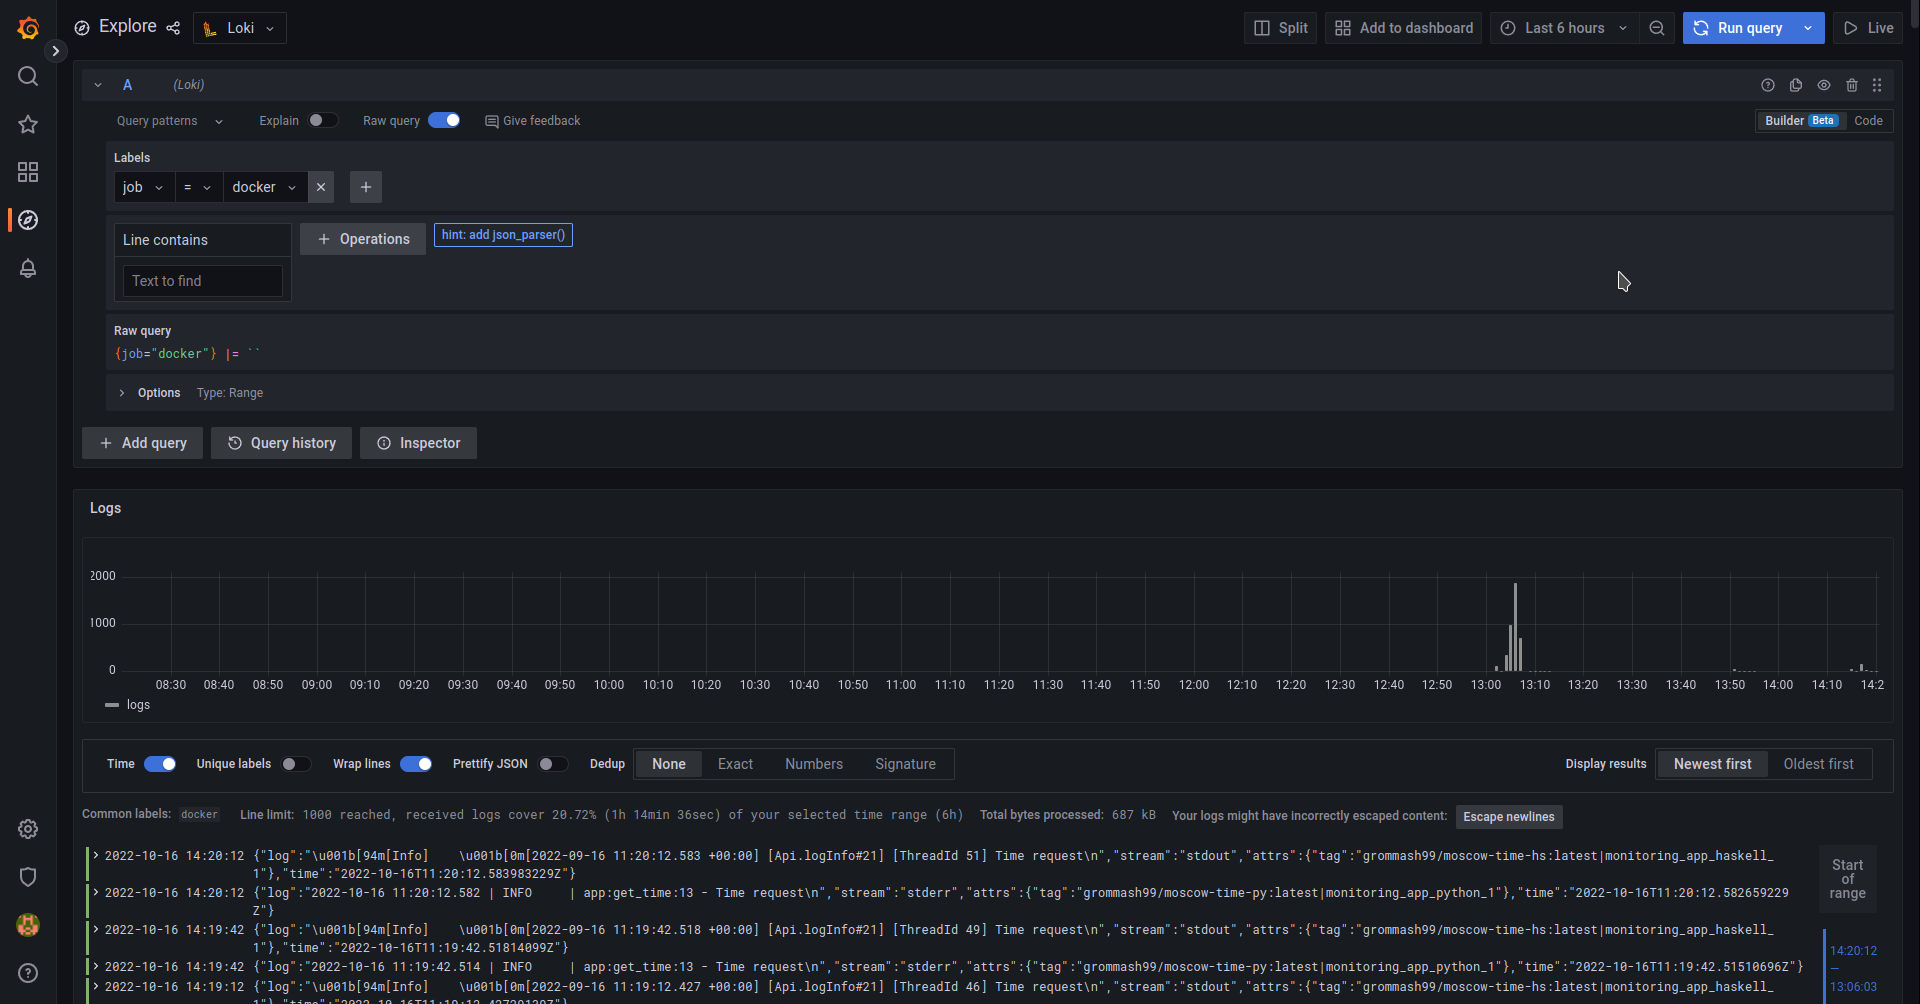
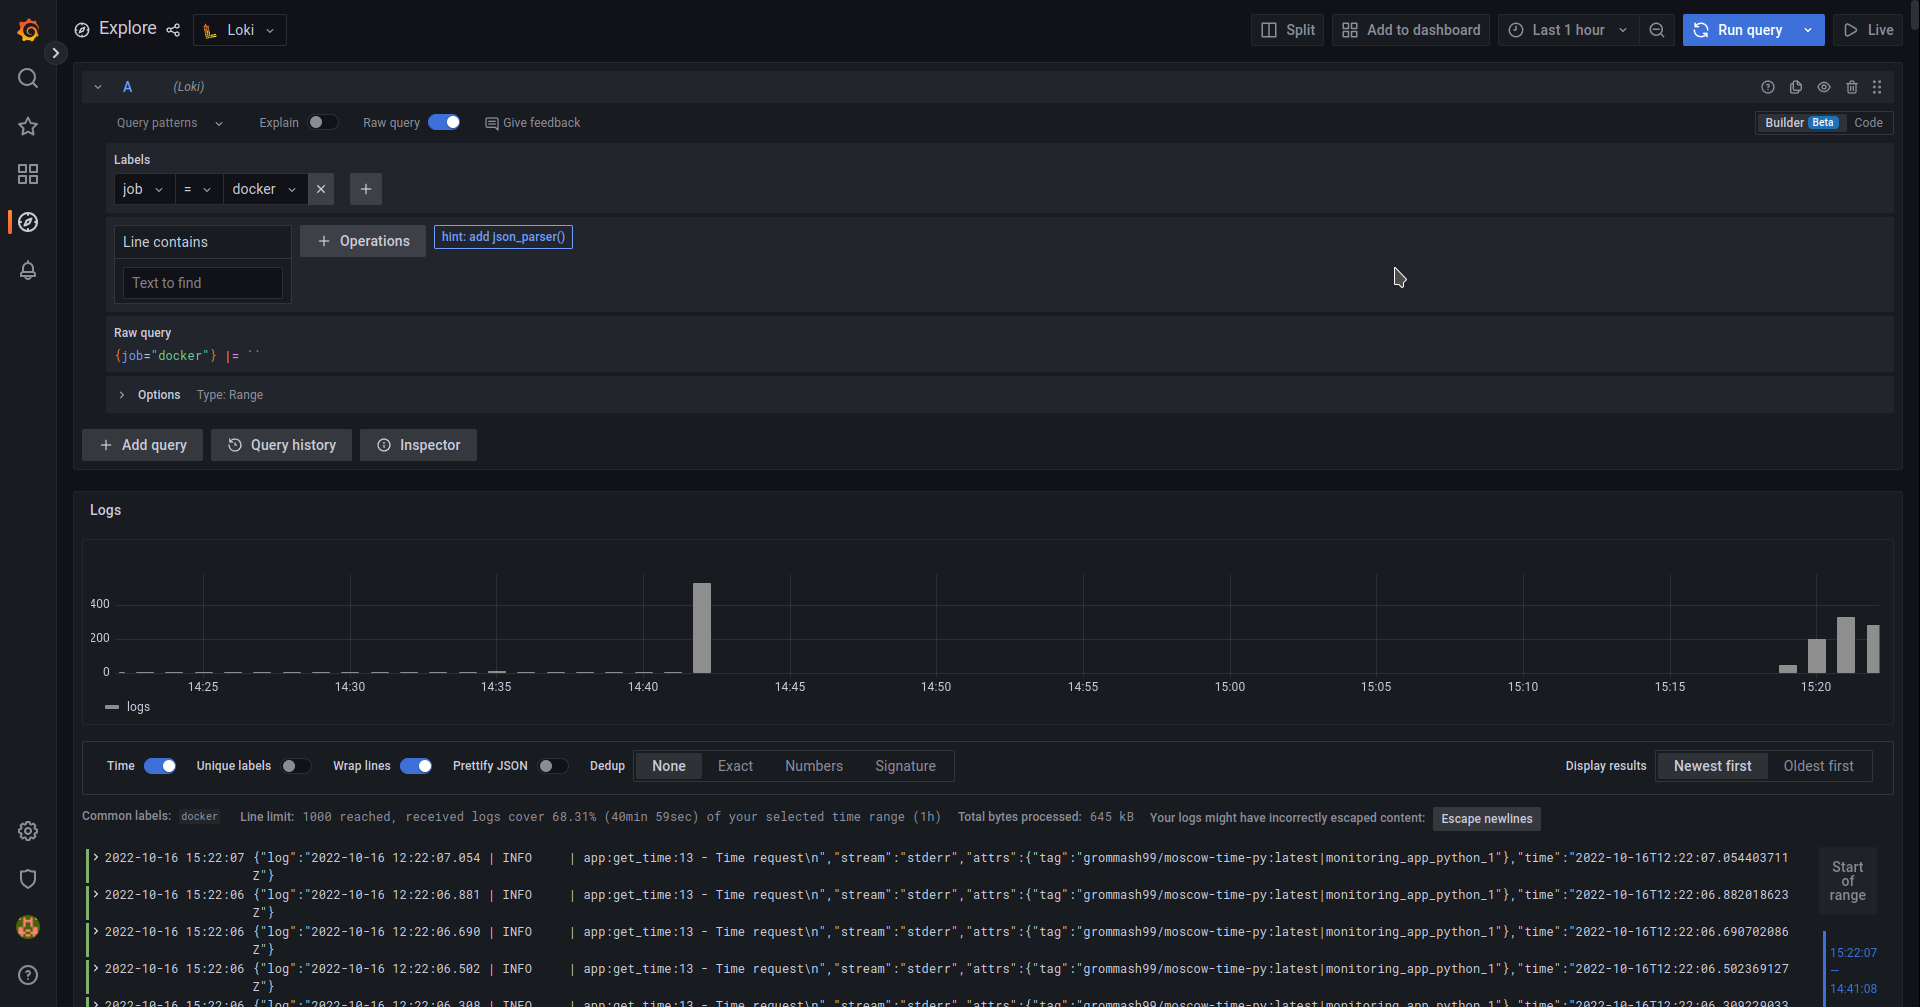
update report

diff --git a/monitoring/MONITORING.md b/monitoring/MONITORING.md
@@ -8,6 +8,8 @@ Logs collected from all docker containers.
 After running infrastructure with monitoring and setting up Grafana,
 I have got the following results:
 
-![Explore](.attachments/1.png)
+![All](.attachments/1.png)
 
-![Dashboard](.attachments/2.png)
+![app1](.attachments/2.png)
+
+![app2](.attachments/3.png)

diff --git a/monitoring/README.md b/monitoring/README.md
@@ -6,5 +6,4 @@
 
 ## Grafana
 
-Grafana is available at `http://localhost:3000`. You can import ready to use
-dashboard with logs from `config/grafana/exported_dashboards` folder.
+Grafana is available at `http://localhost:3000`.
